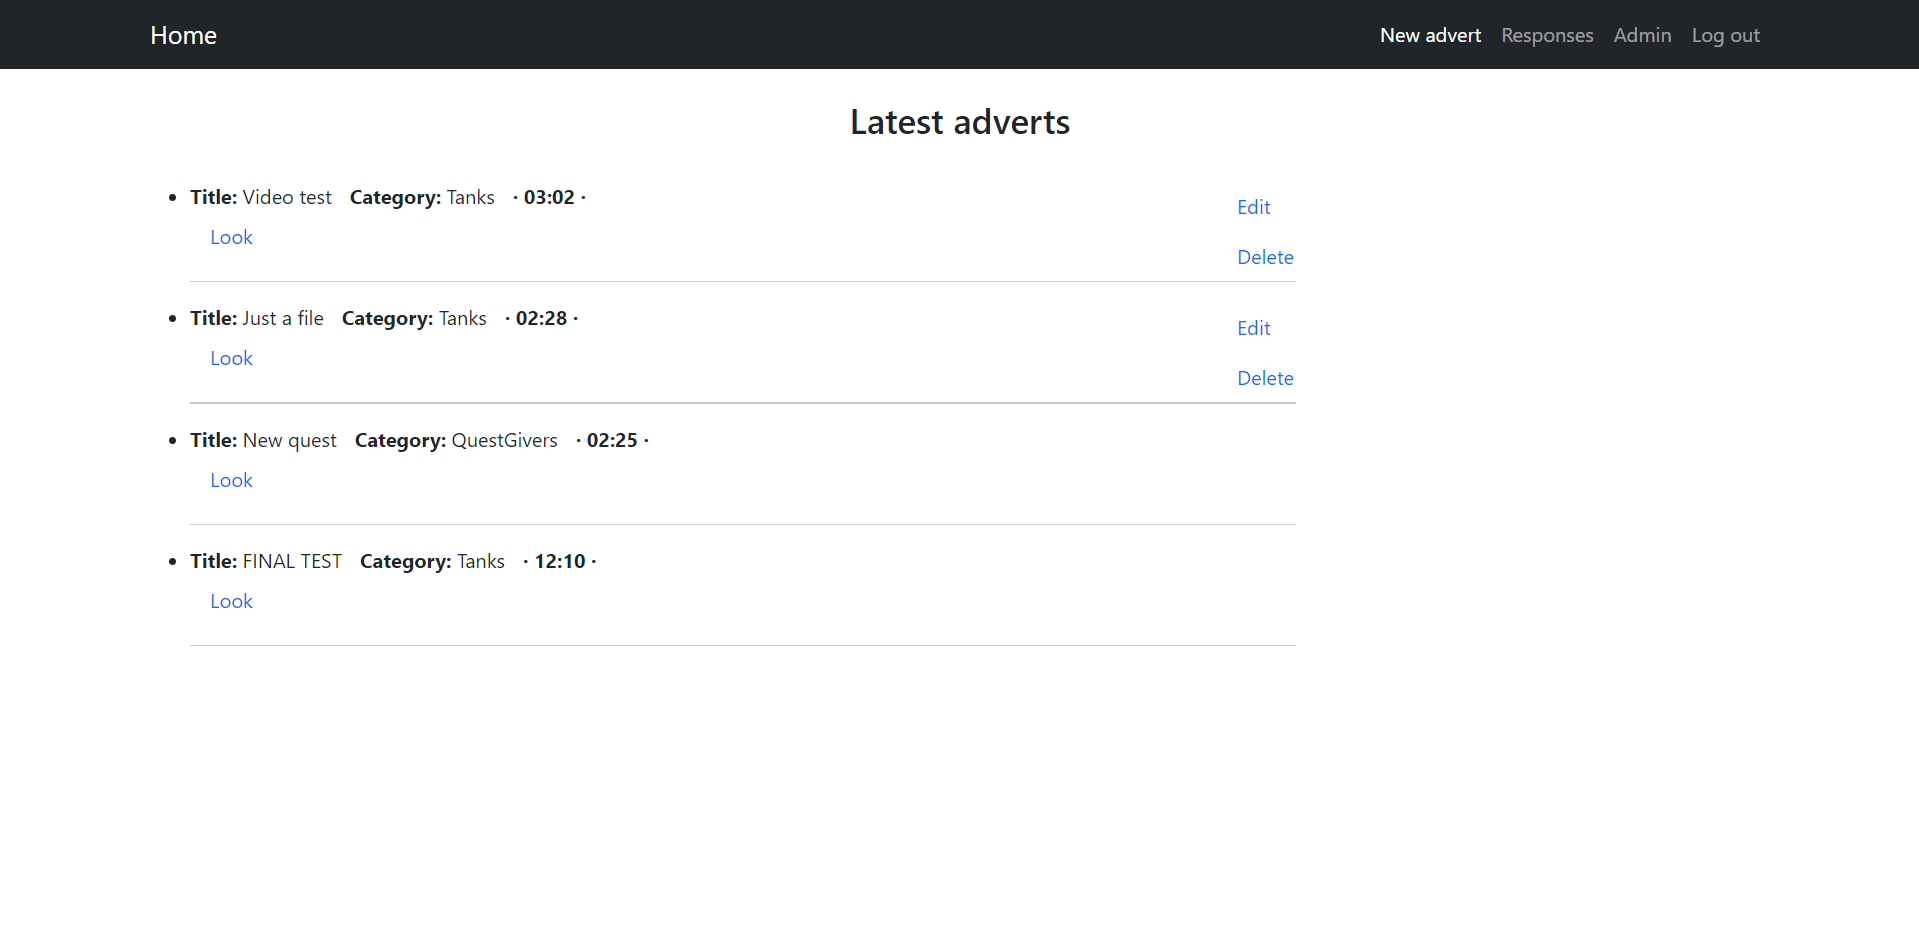
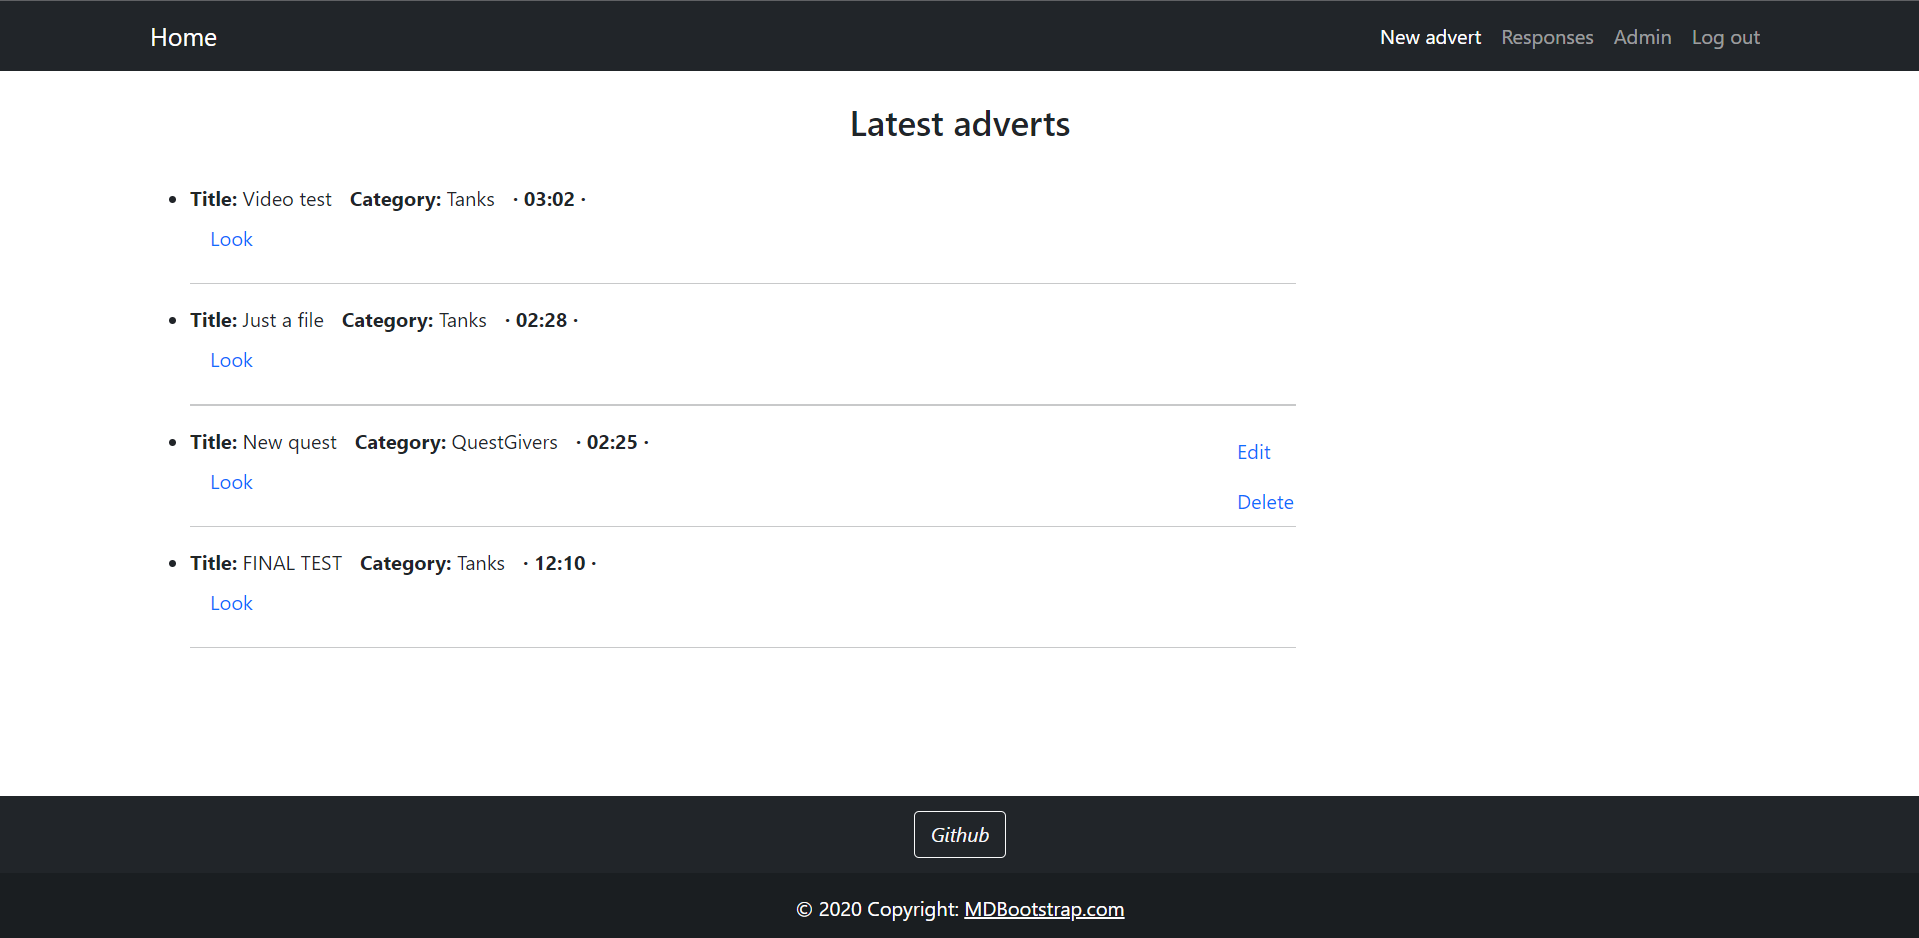
Footer added

diff --git a/Board/templates/deafult.html b/Board/templates/deafult.html
@@ -50,6 +50,24 @@
                     {% endblock content %}
                 </div>
             </div>
-         </div>
+        <footer class="bg-dark text-center text-white fixed-bottom">
+            <!-- Grid container -->
+            <div class="container p-2 pb-0">
+                <section class="mb-2">
+                    <!-- Github -->
+                    <a class="btn btn-outline-light btn-floating m-1" href="https://github.com/ValeriyMarchenko" role="button"
+                    ><i class="fab fa-github">Github</i
+                    ></a>
+                </section>
+            </div>
+            <!-- Grid container -->
+            
+            <!-- Copyright -->
+            <div class="text-center p-3" style="background-color: rgba(0, 0, 0, 0.2);">
+                © 2020 Copyright:
+                <a class="text-white" href="https://mdbootstrap.com/">MDBootstrap.com</a>
+            </div>
+            <!-- Copyright -->
+            </footer>
     </body>
 </html>
